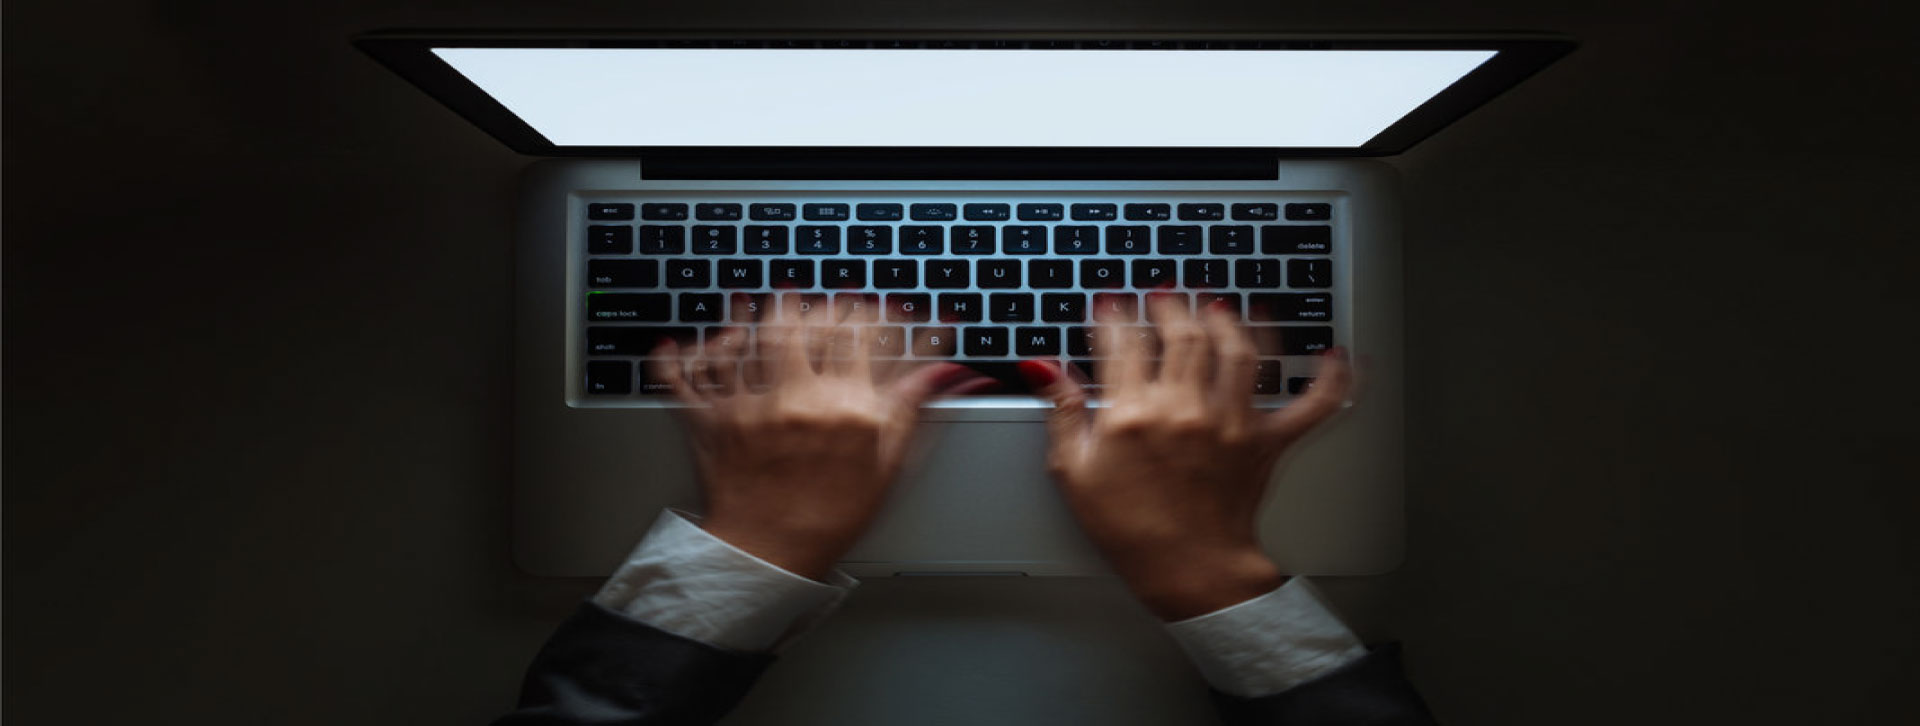
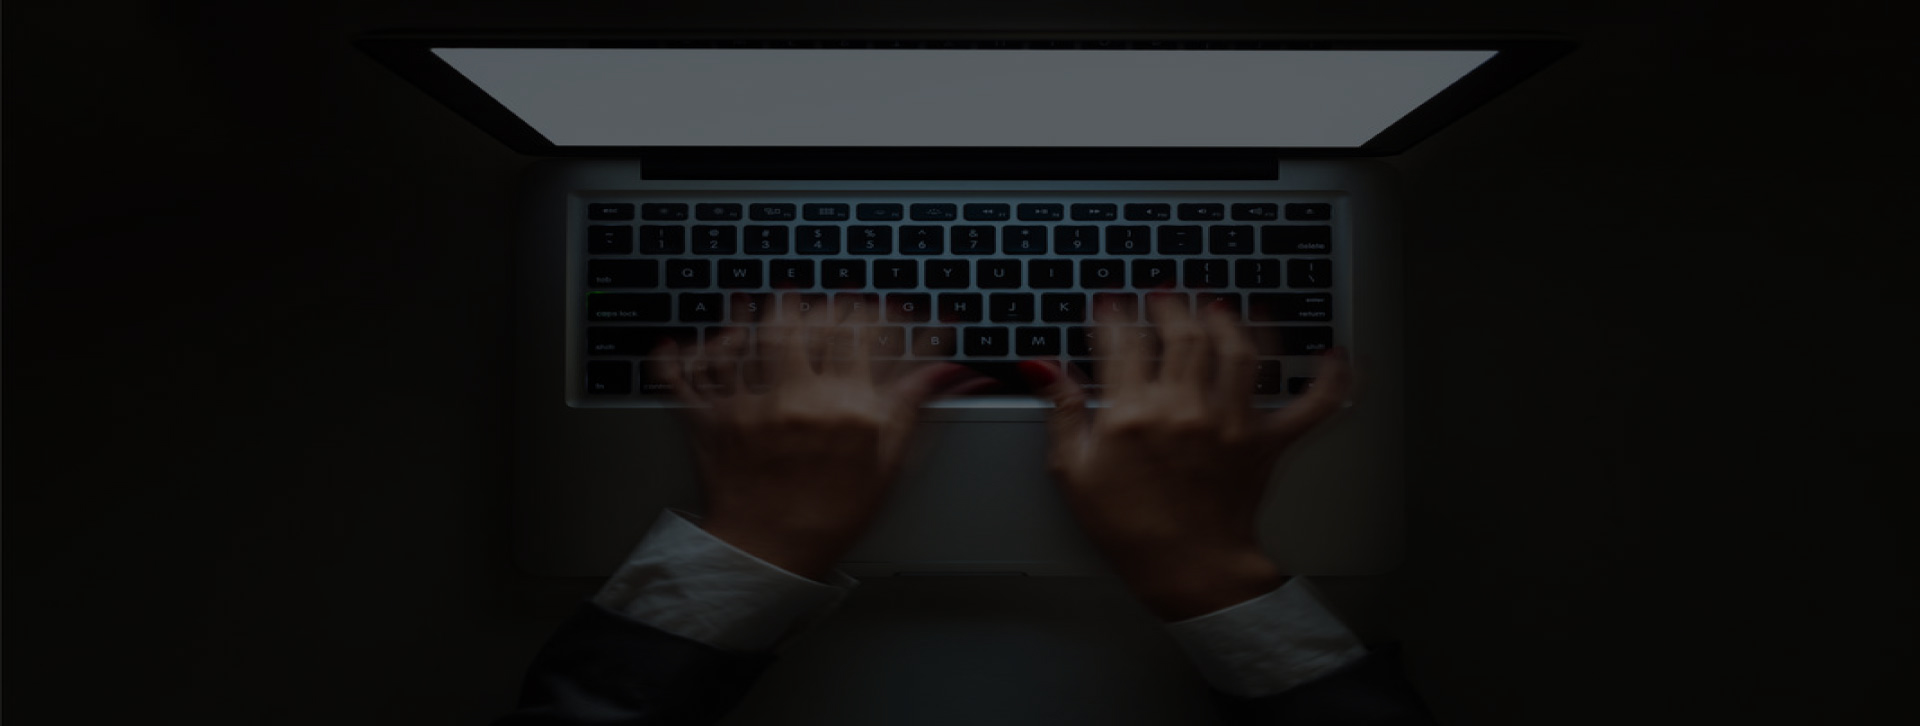
fail

Changed region(s): [[0.2188, 0.0303, 0.7812, 1.0], [0.2812, 0.9394, 0.3438, 1.0]]

diff --git a/css/style.css b/css/style.css
@@ -80,11 +80,6 @@ h1, h2, h3, h4, h5, h6 {
     display: table;
     width: 100%;
     height: 100vh;
-    /*background: url(../img/hero-bg.jpg) top center fixed;*/
-    /*-webkit-background-size: cover;*/
-    /*-moz-background-size: cover;*/
-    /*-o-background-size: cover;*/
-    /*background-size: cover;*/
 }
 
 #hero .hero-logo {
@@ -521,7 +516,6 @@ body.mobile-nav-active #mobile-nav-toggle {
 /* Services Section
 --------------------------------*/
 #services {
-    background: linear-gradient(rgba(255, 255, 255, 0.9), rgba(255, 255, 255, 0.9)), url("../img/services-bg.jpg") fixed center center;
     background-size: cover;
     padding: 80px 0 60px 0;
 }
@@ -570,7 +564,6 @@ body.mobile-nav-active #mobile-nav-toggle {
 /* Subscribe Section
 --------------------------------*/
 #subscribe {
-    background: linear-gradient(rgba(0, 0, 0, 0.6), rgba(0, 0, 0, 0.6)), url(../img/subscribe-bg.jpg) fixed center center;
     background-size: cover;
     padding: 80px 0;
 }

diff --git a/js/custom.js b/js/custom.js
@@ -106,6 +106,7 @@ jQuery(document).ready(function( $ ) {
       $('html, body').animate({scrollTop : 0},1500, 'easeInOutExpo');
       return false;
   });
-    $(".hero-container").backstretch("img/hero-bg.jpg");
-
+    $("#hero").backstretch("img/hero-bg.jpg");
+    $("#services").backstretch("img/services-bg.jpg");
+    $("#subscribe").backstretch("img/subscribe-bg.jpg");
 });
